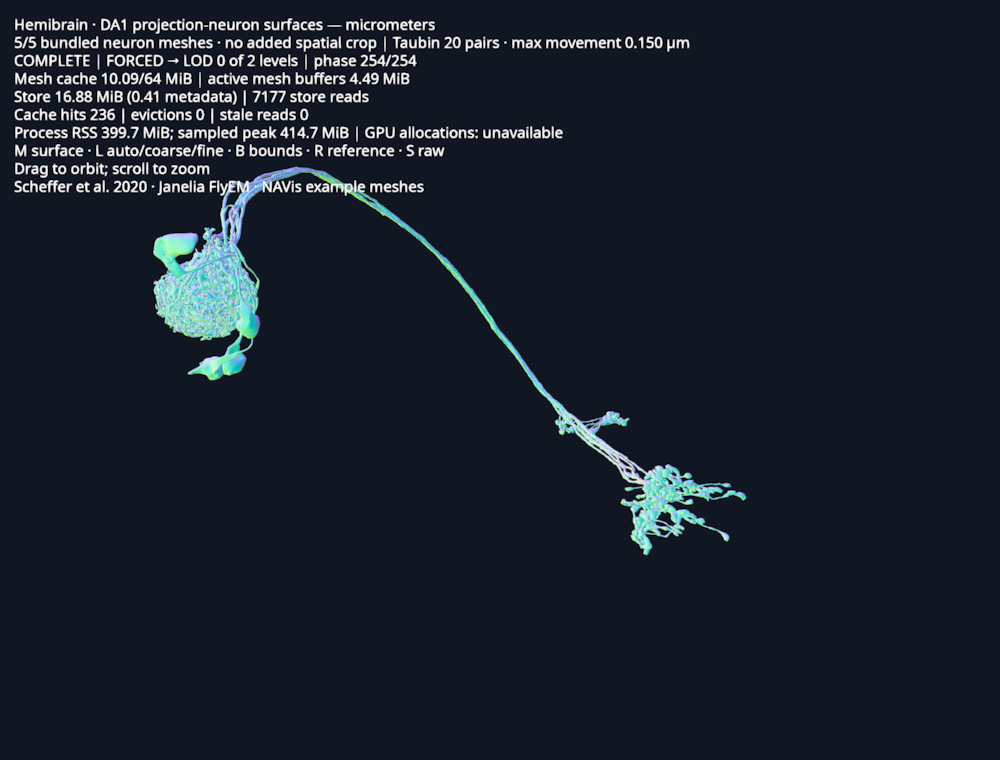
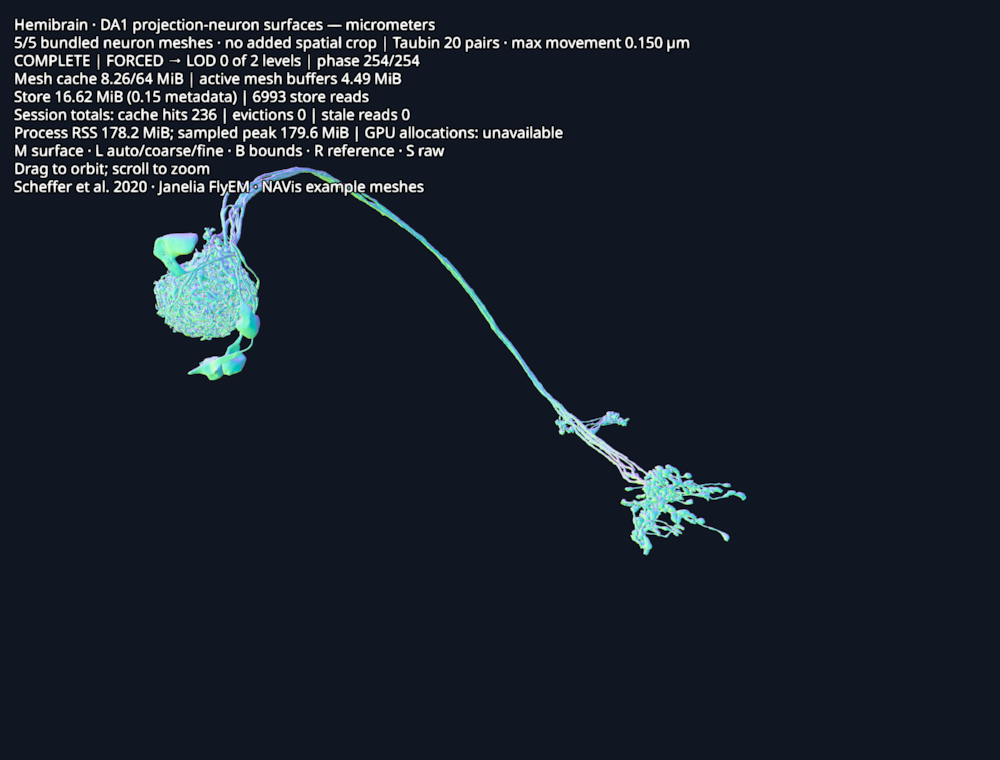
Bound mesh LOD selection memory and tidy demo nits
Evaluate projected error in fixed-size blocks so selection temporaries
stay small for large visible sets. Accept any zarr-vectors 0.9 release
from 0.9.4. Outline demo captions so they stay legible over surfaces,
label cache counters as session totals, refresh the neuron screenshots
and drop an unreferenced image.

Changed region(s): [[0.0, 0.0303, 0.434, 0.1816], [0.217, 0.2421, 0.279, 0.2724], [0.341, 0.2421, 0.372, 0.2724]]

diff --git a/src/lodstone/mesh.py b/src/lodstone/mesh.py
@@ -107,6 +107,8 @@ class MeshStreamSnapshot:
 
 
 _CORNERS = np.array(list(product((0, 1), repeat=3)))
+# Corner points per vectorized block; keeps selection temporaries to a few MiB.
+_SELECTION_BLOCK = 8192
 
 
 def _corners(level: MeshLevel) -> np.ndarray:
@@ -154,6 +156,27 @@ def visible_chunks(level: MeshLevel, view: View) -> tuple[MeshChunk, ...]:
     return tuple(level.chunks[i] for i in indices)
 
 
+def _max_projected_error(
+    points: np.ndarray, error: float, view: View, half_viewport: np.ndarray
+) -> float:
+    """Largest screen displacement of an error cube, in bounded-memory blocks."""
+    offsets = (2 * _CORNERS - 1) * error
+    worst = 0.0
+    for start in range(0, len(points), _SELECTION_BLOCK):
+        block = points[start : start + _SELECTION_BLOCK]
+        a = _homogeneous(block) @ view.world_to_clip.T
+        # Project a cube enclosing the error ball; checking only axes
+        # can underestimate diagonal screen-space displacement.
+        b = _homogeneous(block[:, None, :] + offsets) @ view.world_to_clip.T
+        if np.any(a[:, 3] <= 0) or np.any(b[..., 3] <= 0):
+            return float("inf")
+        delta = b[..., :2] / b[..., 3:4] - a[:, None, :2] / a[:, None, 3:4]
+        worst = max(
+            worst, float(np.max(np.linalg.norm(delta * half_viewport, axis=-1)))
+        )
+    return worst
+
+
 def select_mesh_level(levels: tuple[MeshLevel, ...], view: View, pixels: float) -> int:
     """Choose the coarsest level whose supplied error fits a pixel threshold.
 
@@ -169,15 +192,7 @@ def select_mesh_level(levels: tuple[MeshLevel, ...], view: View, pixels: float) 
         if not len(corners):
             return index
         points = corners.reshape(-1, 3)
-        a = _homogeneous(points) @ view.world_to_clip.T
-        # Project a cube enclosing the error ball; checking only axes
-        # can underestimate diagonal screen-space displacement.
-        displaced = points[:, None, :] + (2 * _CORNERS - 1) * level.error
-        b = _homogeneous(displaced) @ view.world_to_clip.T
-        if np.any(a[:, 3] <= 0) or np.any(b[..., 3] <= 0):
-            continue
-        delta = b[..., :2] / b[..., 3:4] - (a[:, None, :2] / a[:, None, 3:4])
-        if float(np.max(np.linalg.norm(delta * half_viewport, axis=-1))) <= pixels:
+        if _max_projected_error(points, level.error, view, half_viewport) <= pixels:
             return index
     return 0
 

diff --git a/src/lodstone/adapters/biological_mesh_demo.py b/src/lodstone/adapters/biological_mesh_demo.py
@@ -159,7 +159,14 @@ def main() -> None:
         dispatch=(lambda f: f()) if args.offscreen else callbacks.put,
     )
     overlay = gfx.Scene()
-    text = gfx.Text(text="", font_size=15, screen_space=True, anchor="top-left")
+    # An outline keeps captions legible where they overlap bright surfaces.
+    text = gfx.Text(
+        text="",
+        font_size=15,
+        screen_space=True,
+        anchor="top-left",
+        material=gfx.TextMaterial(outline_color="#000", outline_thickness=0.3),
+    )
     overlay.add(text)
     overlay_camera = gfx.ScreenCoordsCamera()
     selected_level: int | None = None
@@ -281,7 +288,7 @@ def main() -> None:
             f"{status.state.upper()} | {f'{reference_label} (not streamed)' if reference_visible else lod_status} | phase {status.phase_chunks_done}/{status.phase_chunks_total}\n"
             f"Mesh cache {status.cache_bytes / (1 << 20):.2f}/{args.memory_mib:g} MiB | active mesh buffers {active_buffer_bytes / (1 << 20):.2f} MiB\n"
             f"Store {io.bytes_returned / (1 << 20):.2f} MiB ({io.metadata_bytes / (1 << 20):.2f} metadata) | {io.requests} store reads\n"
-            f"Cache hits {status.cache_hits} | evictions {status.evictions} | stale reads {status.stale_reads}\n"
+            f"Session totals: cache hits {status.cache_hits} | evictions {status.evictions} | stale reads {status.stale_reads}\n"
             f"Process RSS {usage['rss_bytes'] / (1 << 20):.1f} MiB; sampled peak {usage['sampled_peak_rss_bytes'] / (1 << 20):.1f} MiB | GPU allocations: unavailable\n"
             f"{'V image · ' if image is not None else ''}M surface · {'L auto/coarse/fine · ' if len(source.levels) > 1 else 'Fine only (coarse changed topology) · '}B bounds · R reference{' · S raw' if neuron_sample else ''}\n"
             f"{status.error or (('Phase exceeds budget; current surface retained' if status.displayed_level is not None else 'Visible phase exceeds budget; increase --memory-mib') if status.limited else 'Drag to orbit; scroll to zoom')}\n"

diff --git a/docs/mesh-streaming.md b/docs/mesh-streaming.md
@@ -13,8 +13,9 @@ pip install -e ".[mesh]"                   # headless mesh support
 uv sync --frozen --extra biological-demo   # include the neuron viewer
 ```
 
-The mesh extras pin [Zarr Vectors 0.9.4](https://github.com/AllenInstitute/zarr-vectors-py/releases/tag/v0.9.4),
-which includes the accepted ownership reader and scoped-link integration.
+The mesh extras require [Zarr Vectors 0.9.4](https://github.com/AllenInstitute/zarr-vectors-py/releases/tag/v0.9.4),
+or a later 0.9 release, which include the accepted ownership reader and
+scoped-link integration. The standalone demos pin 0.9.4 exactly.
 The package installs from PyPI; no Git dependency or sibling checkout is needed.
 
 ## Open your own mesh
